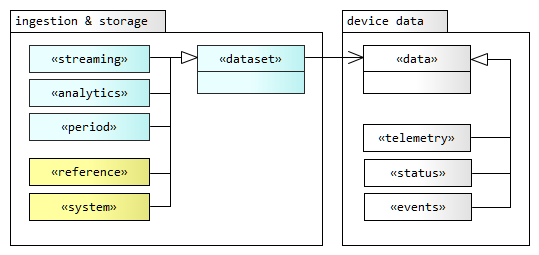
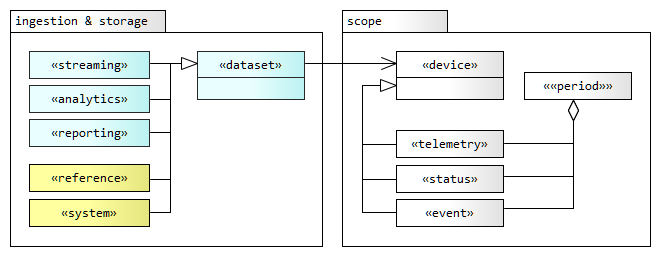
ok

Changed region(s): [[0.0, 0.0275, 1.0, 0.9608], [0.5937, 0.9608, 0.6234, 0.9882]]

diff --git a/api.sundaya.monitored.equipment/Implementation/Architecture/Dataset Metamodel.md b/api.sundaya.monitored.equipment/Implementation/Architecture/Dataset Metamodel.md
@@ -1,10 +1,16 @@
 # Dataset Metamodel
 ---
 
-Data from devices are ingested and stored in three primary datasets, and combined through joins with other datasets based on the metamodel below.
+All data from devices are ingested and stored in three primary repositories, and combined through joins with static datasets two other repositories based on the metamodel described below.
 
-Primary Datasets | Secondary Datasets | Data Scope
+Dataset | Repository / Data Stereotype | Data Scope
 --- | --- | --- 
+`monitoring.pms` | <<streaming>>, <<analytics>> | `telemetry`, `status`
+`monitoring.pms` | <<streaming>>, <<analytics>> | `telemetry`, `status`
+`monitoring.pms` | <<streaming>>, <<analytics>> | `telemetry`, `status`
+`monitoring.pms` | <<streaming>>, <<analytics>> | `telemetry`, `status`
+
+
 `streaming`, `analytics`, `period` | `reference`, `system` | `telemetry`, `status`, `event` |
 
 The lifecycle and intended use of each dataset is described below.
@@ -27,14 +33,13 @@ The lifecycle and intended use of each dataset is described below.
     Data rows are append-only and never modified. 
 
     
-- **period** - the _analytics_ dataset contains aggregates of time-series data, aligned to data windows: for example energy data totals for a week.
+- **reporting** - the _reporting_ dataset contains aggregates of data aligned to time windows: for example energy data totals for a week.
 
-    This dataset is produced by parallel stream processors for low latency and high throughput. 
+    This dataset is produced from the streaming queue by parallel processors for low latency and high throughput. 
 
-    However some data may arrive late, often due to poor connectivity seen in remote locations, or when a data backlog is sent after the system is offline due to maintenance etc. The stream processors are able to align late-arriving data with previous data windows to provide consistent aggregates.
+    However some data may arrive late, often due to poor connectivity seen in remote locations, or when a data backlog is sent after the system is offline due to maintenance etc. The stream processors are able to align these late-arriving data with previously processed time windows.
 
     The data is stored in a denormalised wide-column database for fast access by `API` services and transactional systems (OLTP).
-
     
 - **reference** - the _reference_ dataset contains _master_ data for customers, suppliers, personnel, sites, products and services. 
 
